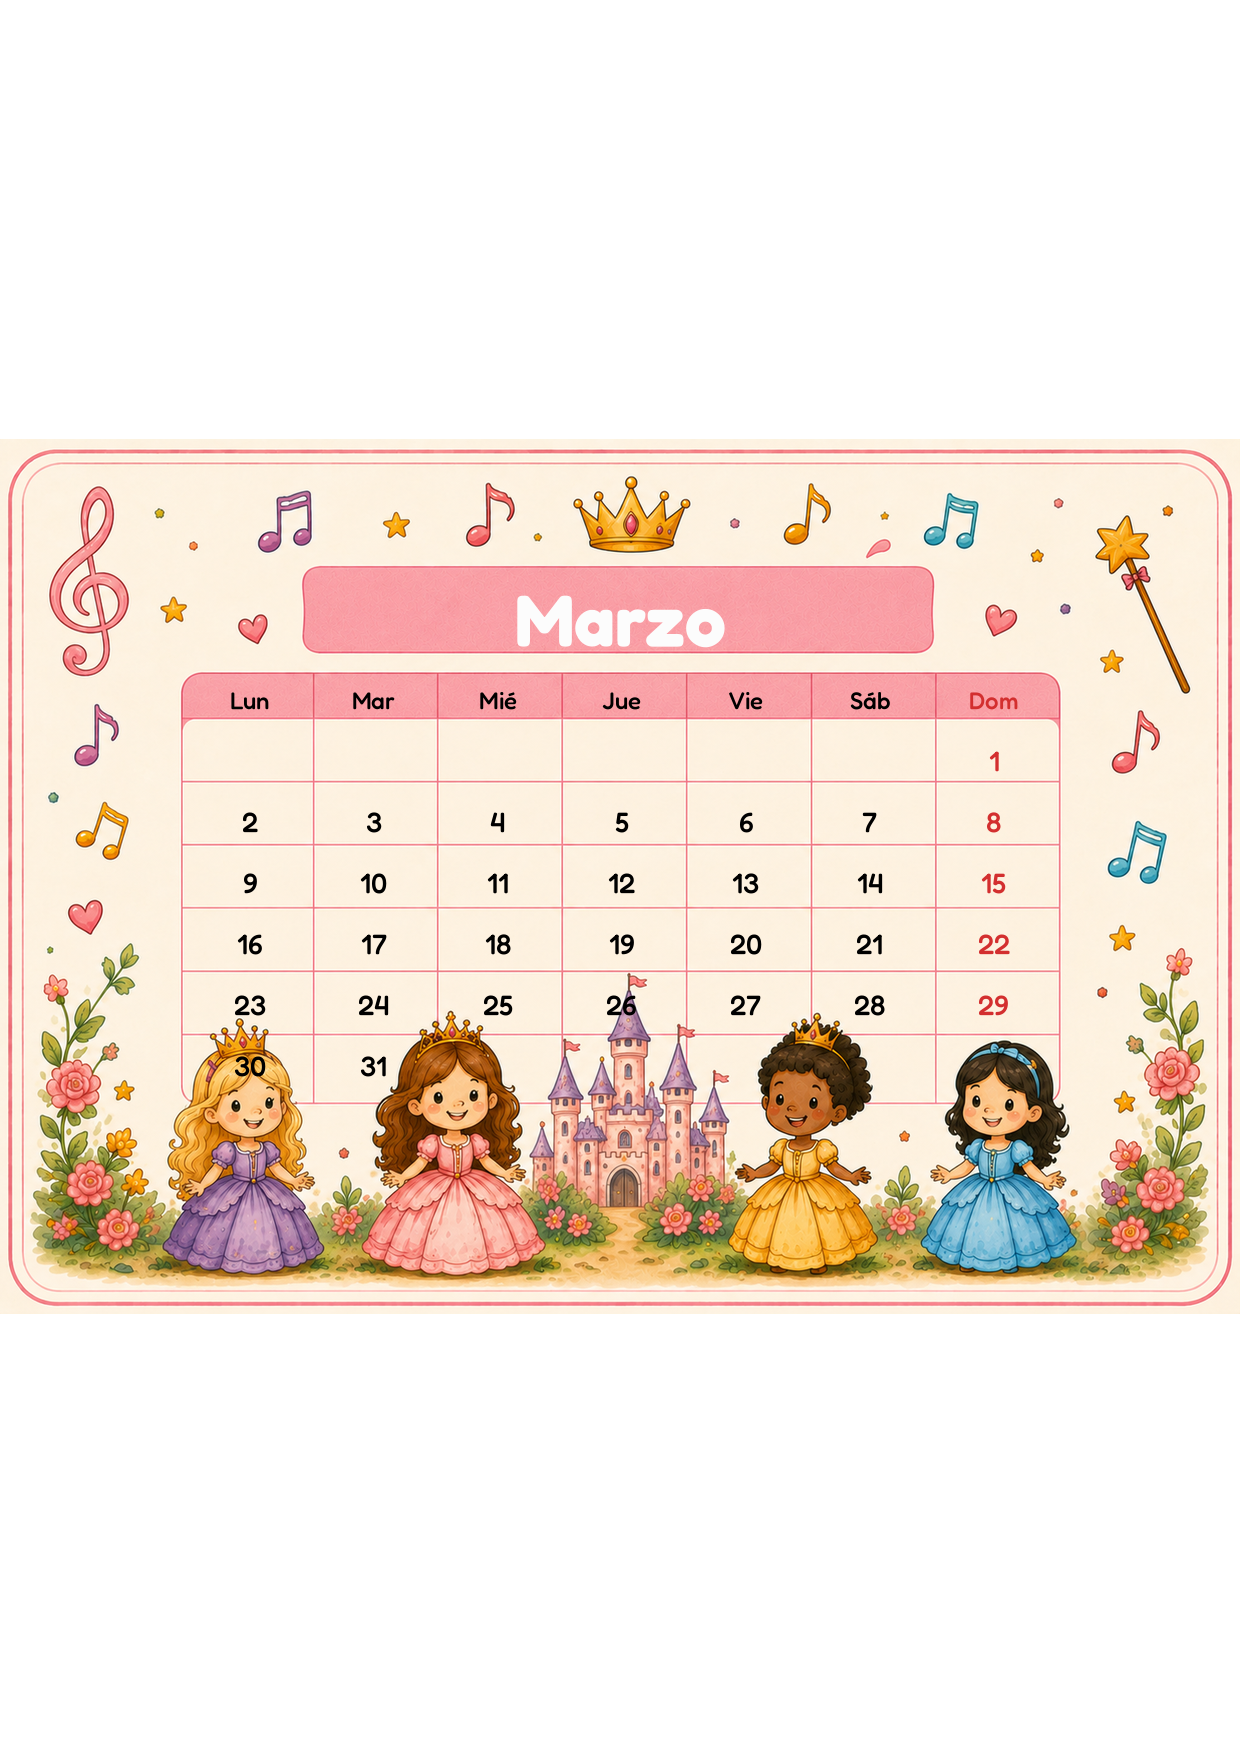
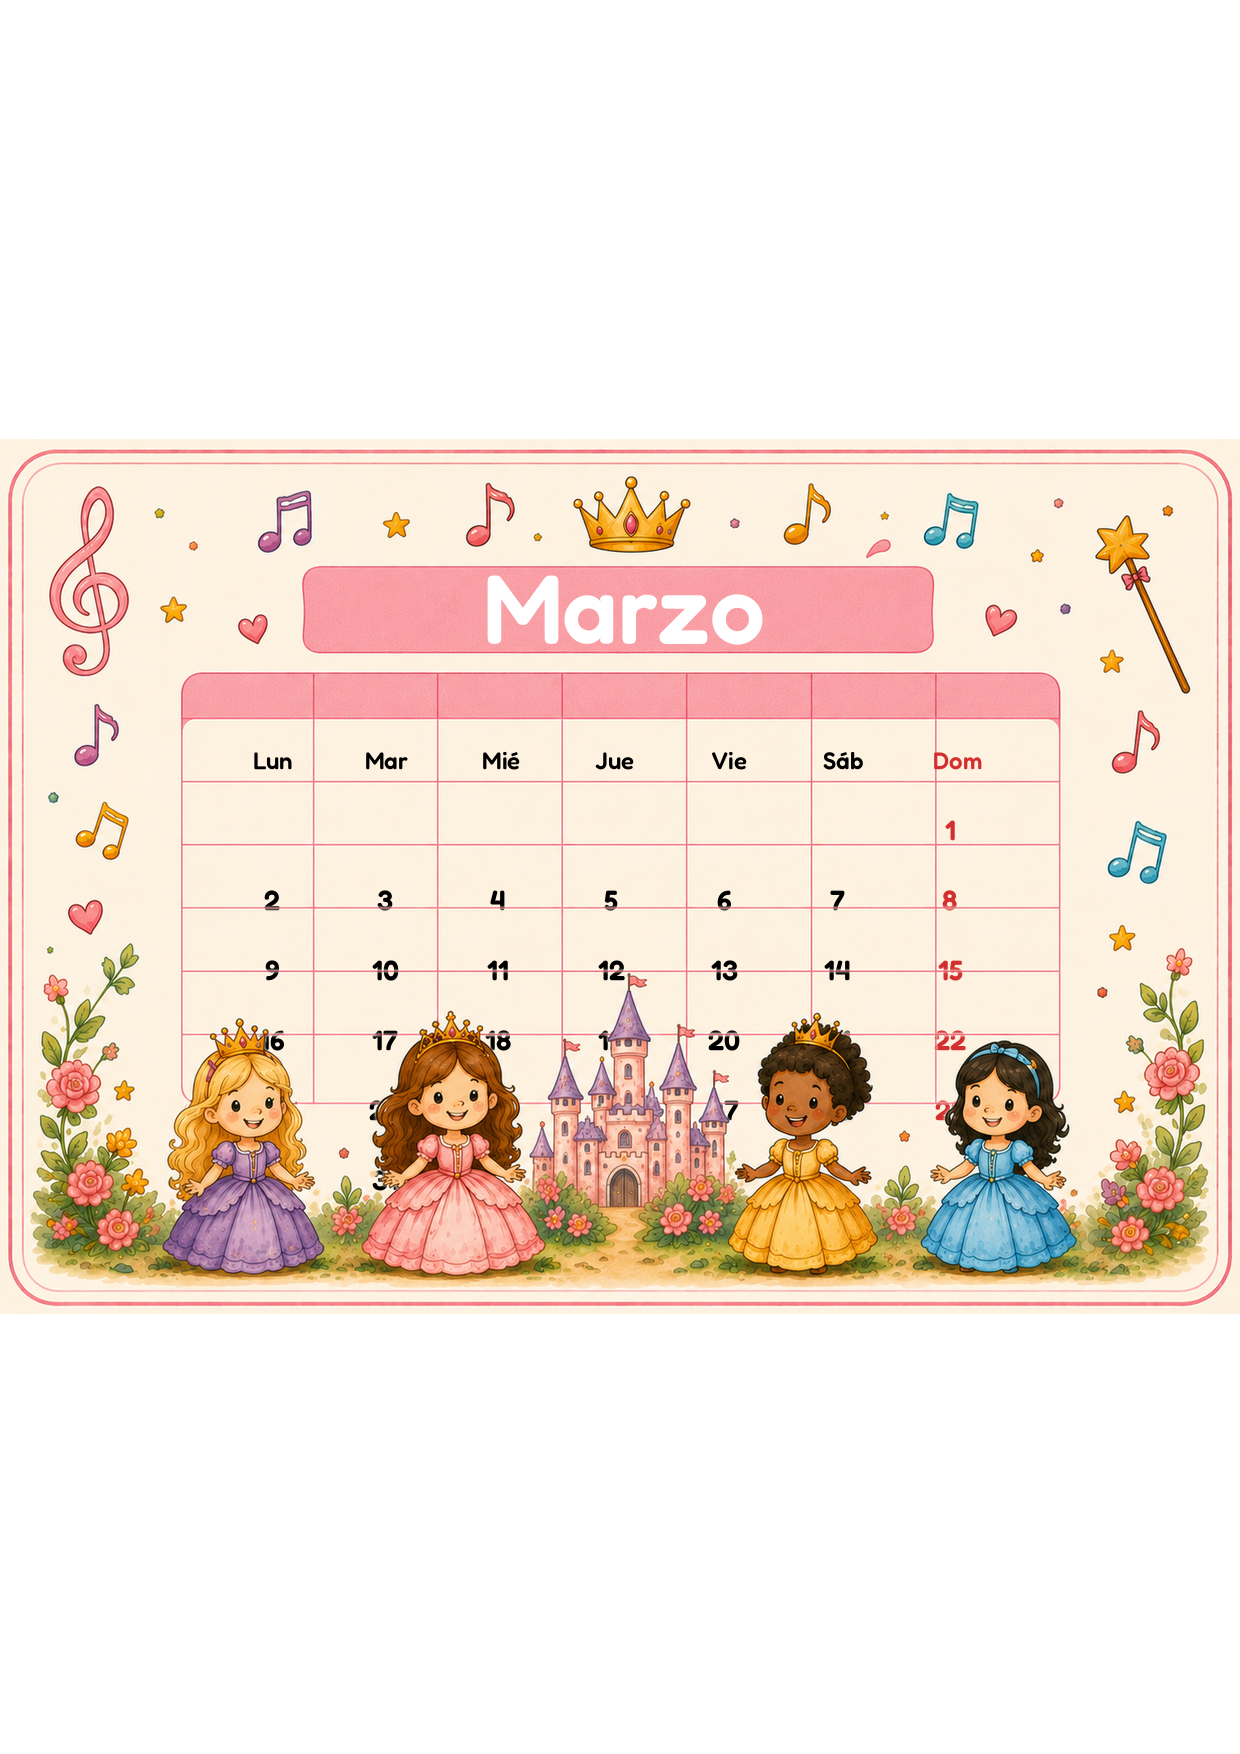
audiolibro: ?wm=1 aplica marca de agua a la página (para el preview de la tienda)
Claude-Session: https://claude.ai/code/session_018GrjJxGJZZWLsvtiwTETcj

diff --git a/servicio.py b/servicio.py
@@ -621,6 +621,18 @@ class Handler(BaseHTTPRequestHandler):
                 if r is None:
                     return self._json(404, {"ok": False, "error": "no existe"})
                 data_b, ct = r
+                # ?wm=1: marca de agua para las páginas de PREVIEW en la ficha de la tienda
+                q = urllib.parse.parse_qs(urllib.parse.urlparse(self.path).query)
+                if q.get("wm") and ct.startswith("image"):
+                    try:
+                        from PIL import Image
+                        import piezas
+                        _im = Image.open(io.BytesIO(data_b)).convert("RGB")
+                        _buf = io.BytesIO()
+                        piezas.marca_agua(_im).save(_buf, "JPEG", quality=82)
+                        data_b = _buf.getvalue()
+                    except Exception:
+                        pass
                 self.send_response(200)
                 self.send_header("Content-Type", ct)
                 self.send_header("Cache-Control", "public, max-age=86400")
